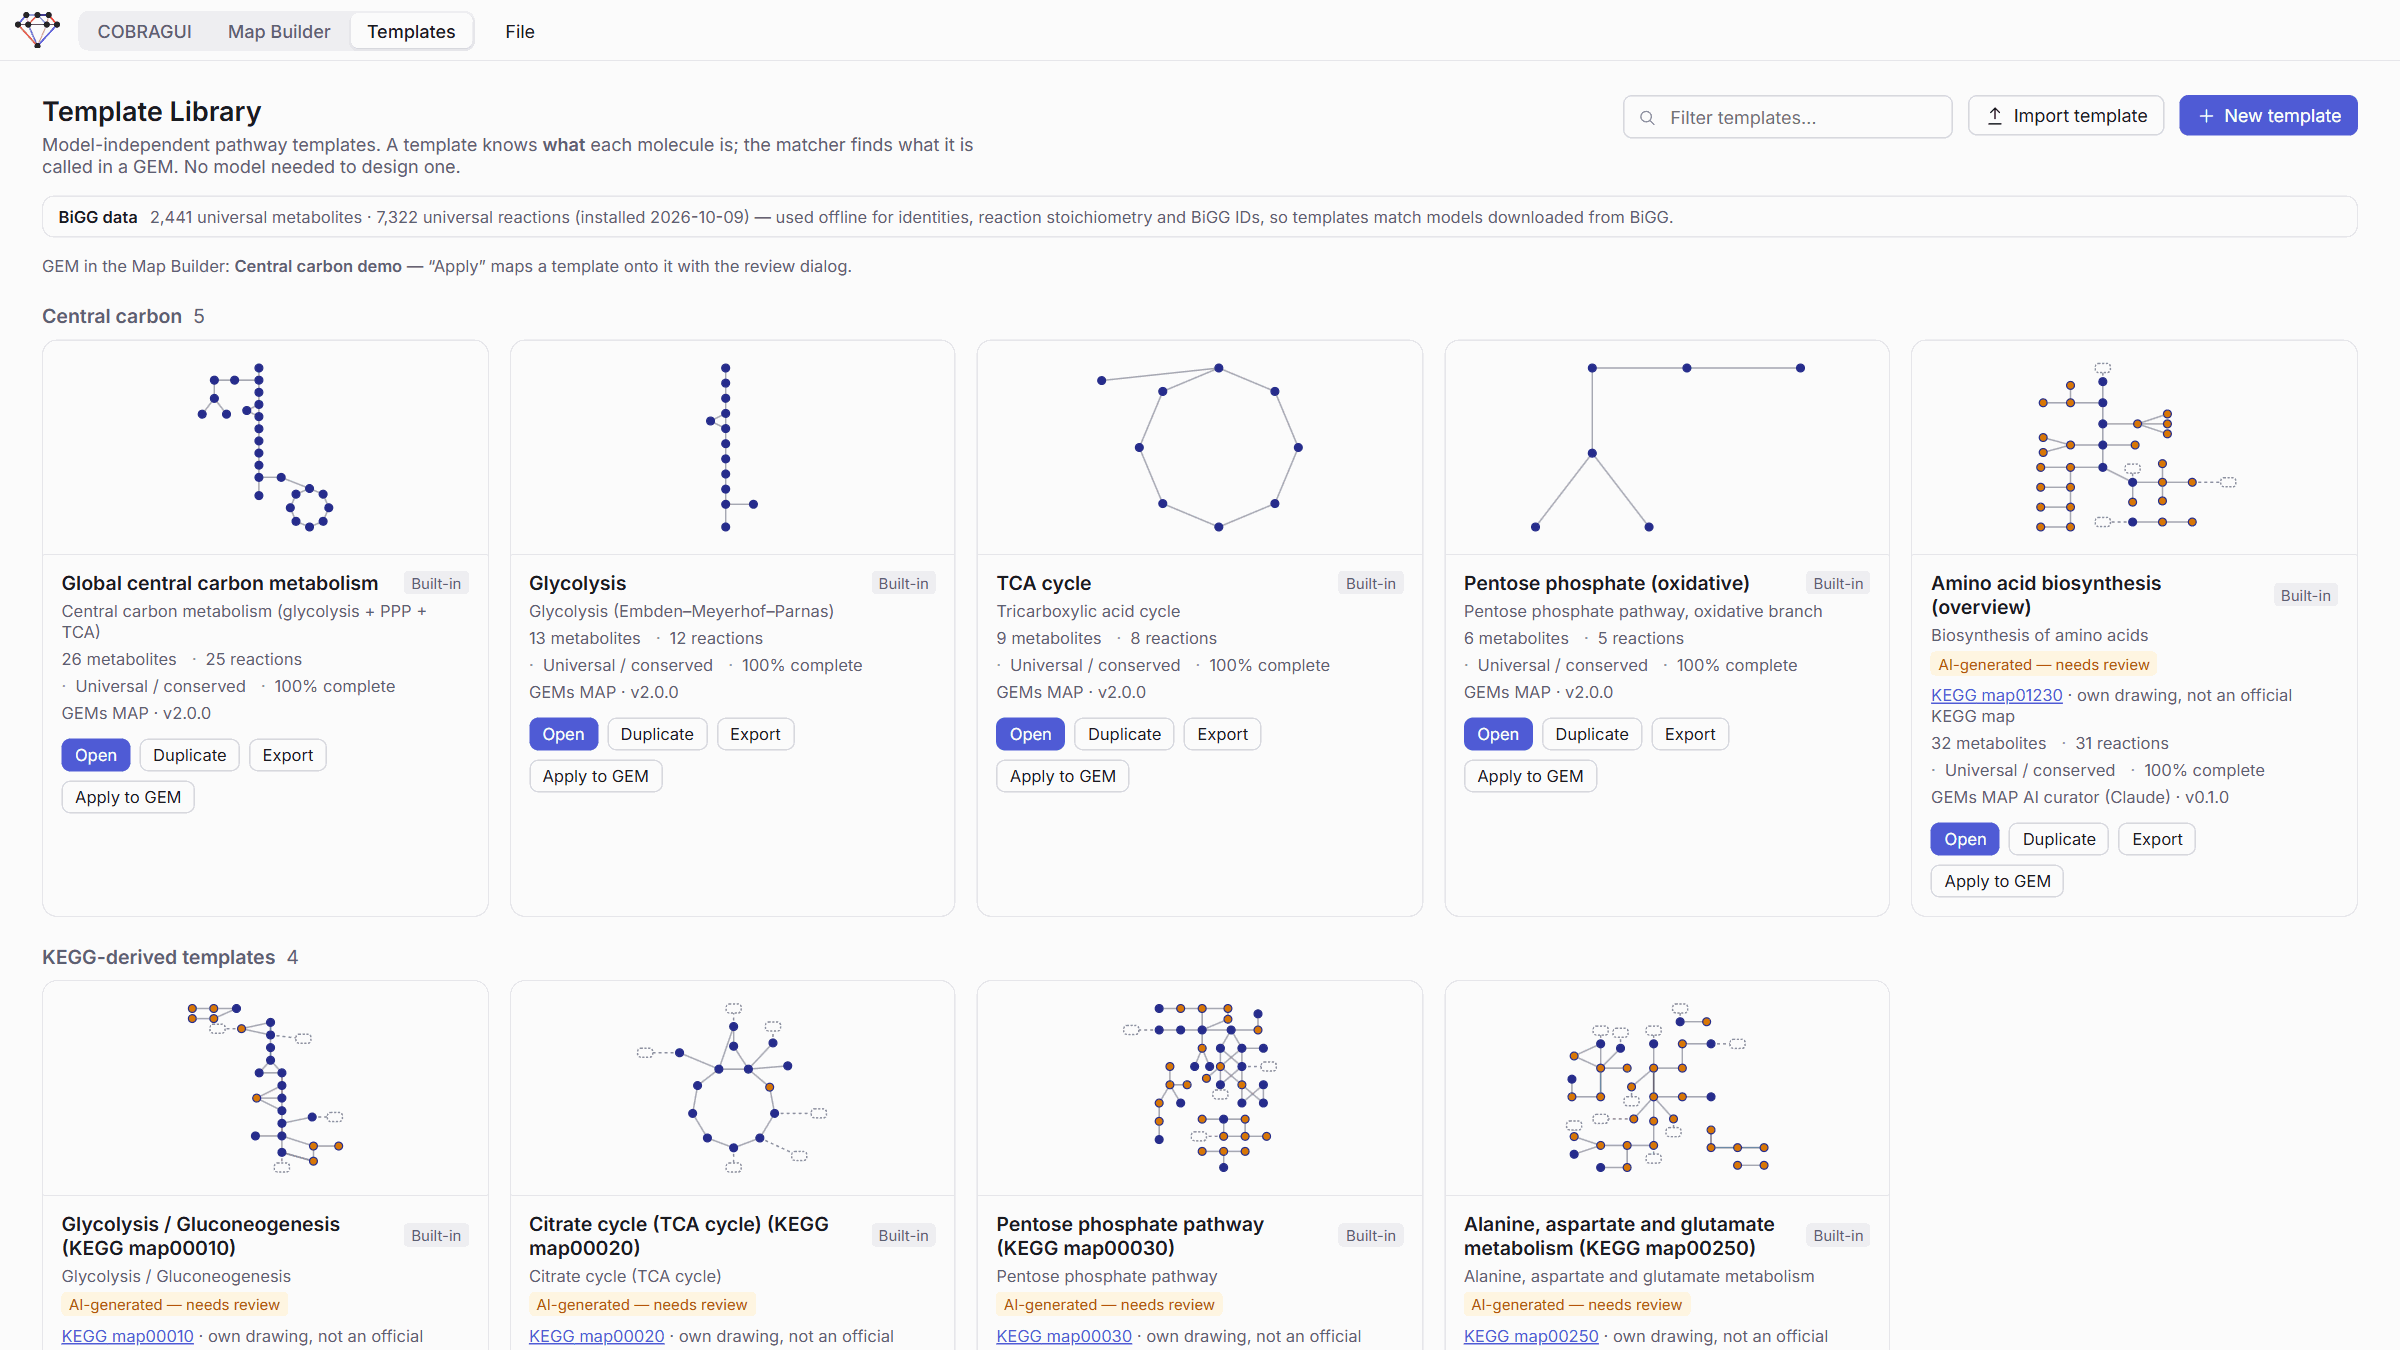
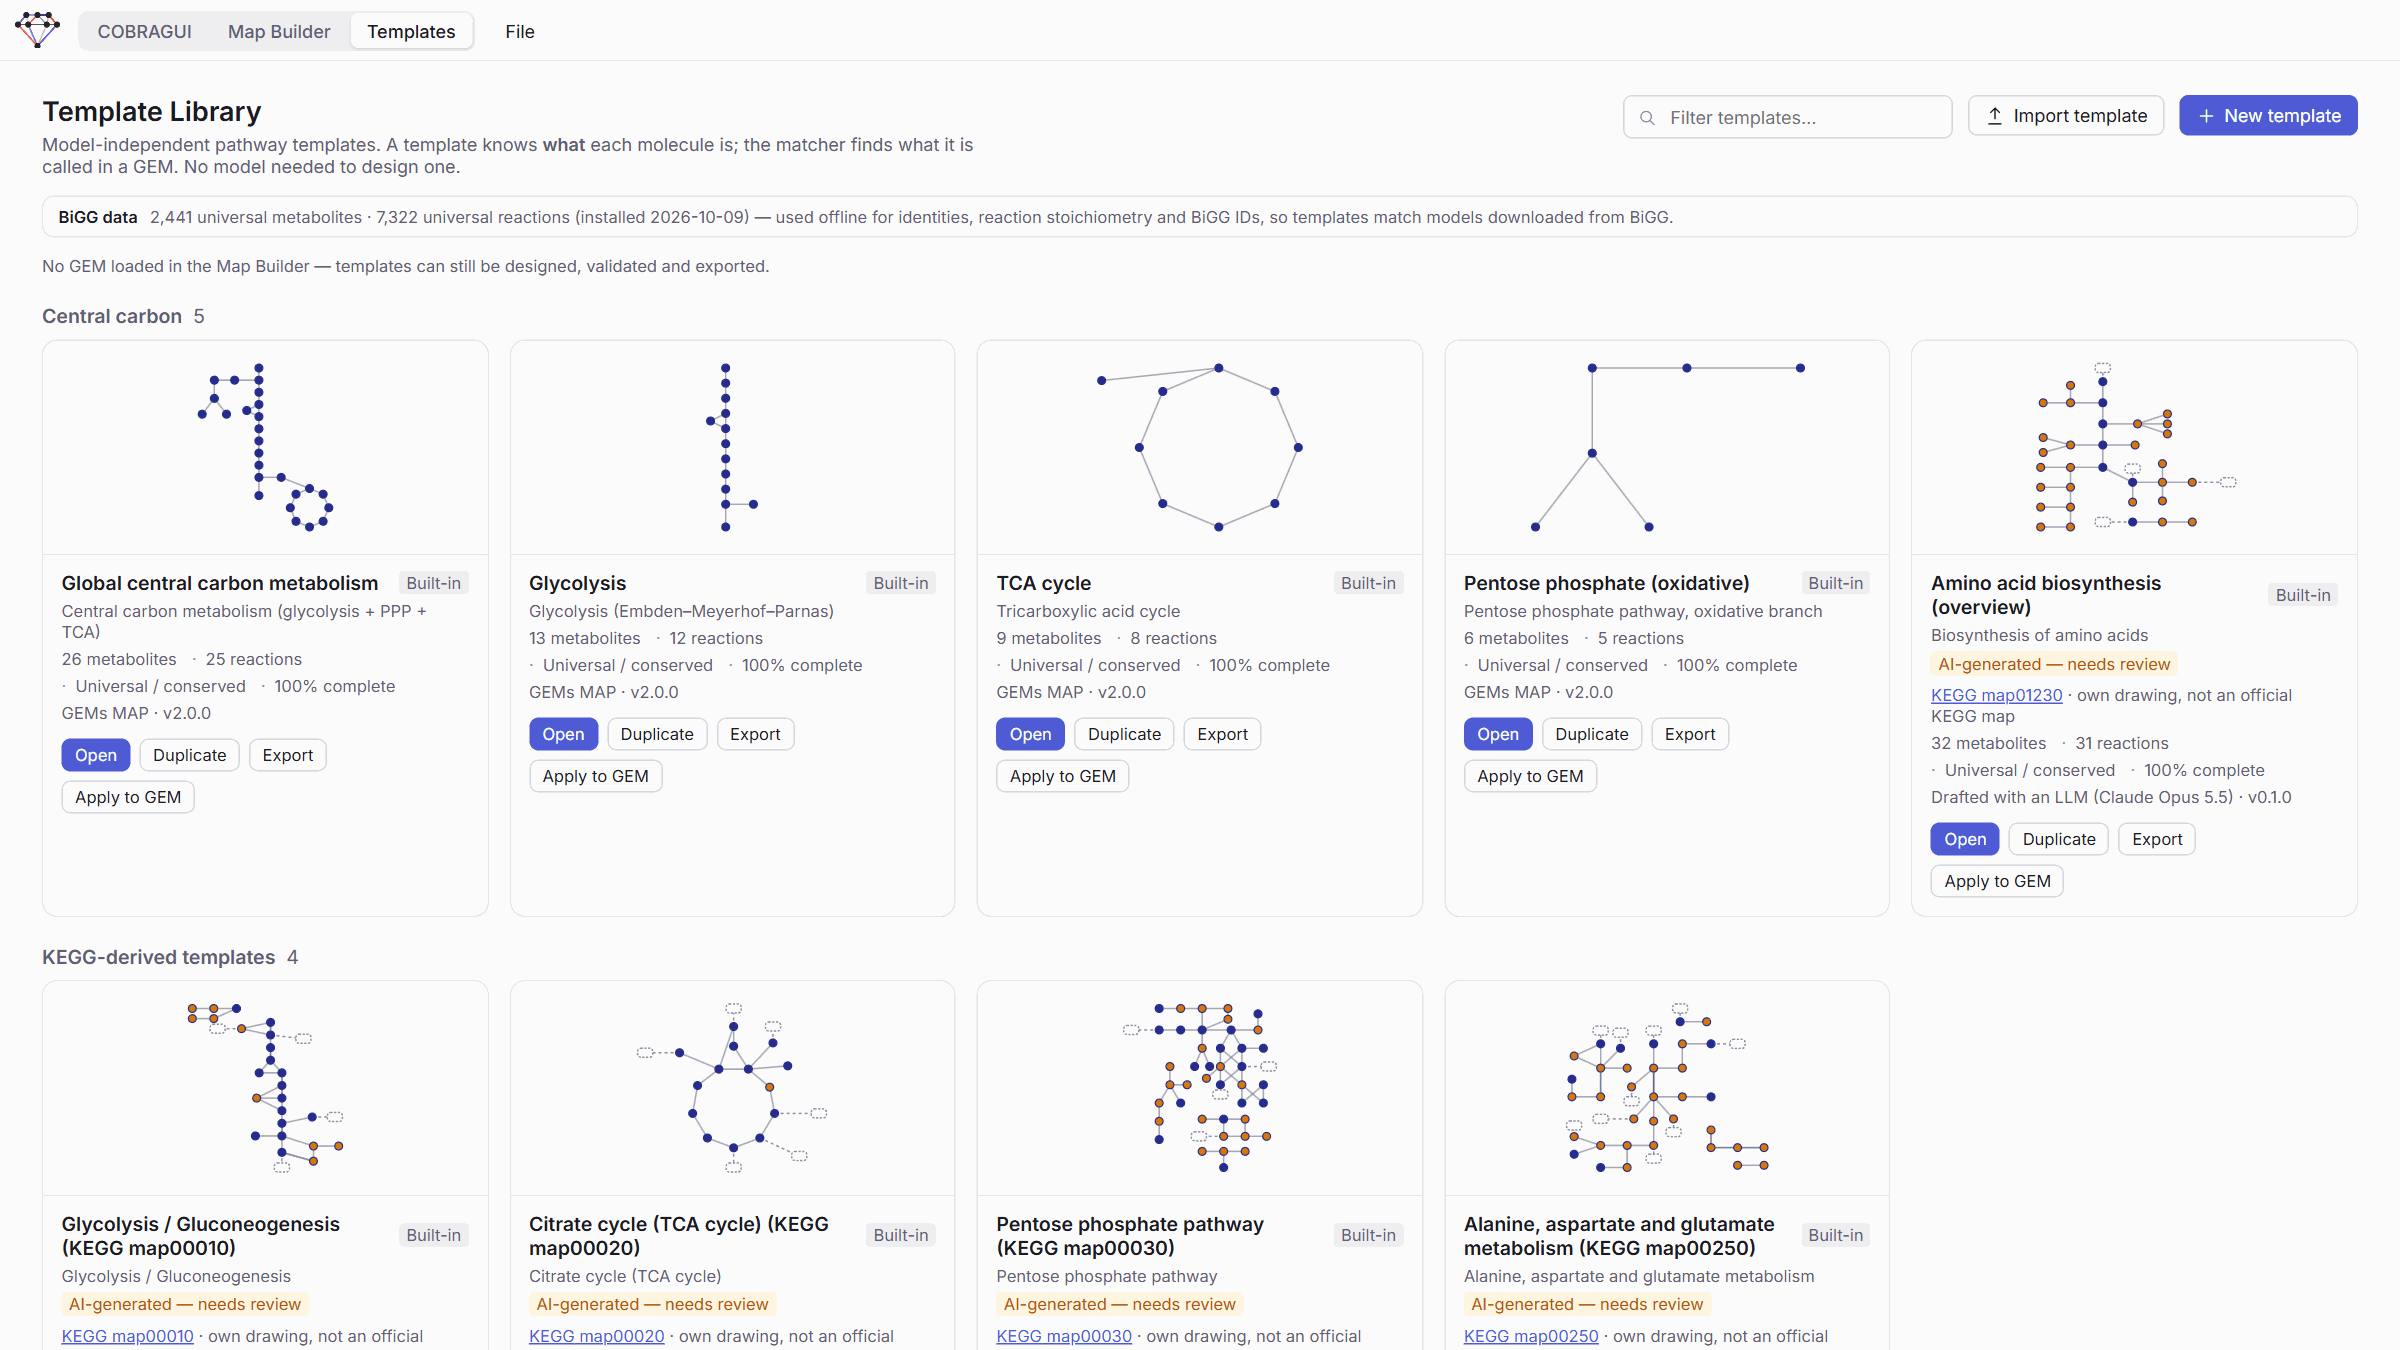
docs: audit up to 5a7f0d6 (interface size, sortable tables, compound identity)
- First look: File > Interface size (80-175 %, Ctrl Alt + / - / 0, palette),
  side panels that fit the window, and the narrow-window thresholds.
- Canvas page: the interface size shortcut in the shortcut table.
- Medium and metabolite analysis tables sort by column title.
- Metabolite analysis: the same compound in other compartments (siblings,
  "c +2", checkboxes, Apply / Keep original / Undo for all checked).
- Identity and matching: a choice for one compartment maps the same entity
  in the others ("same compound as pyr_c") and is saved in the profile.
- Template Library screenshot recaptured with the "Drafted with an LLM" author.
- Audit row in docs/CONTRIBUTING.md.

diff --git a/docs/cobra-gui/metabolite-analysis.md b/docs/cobra-gui/metabolite-analysis.md
@@ -105,7 +105,15 @@ The **Metabolite analysis** section answers a different question: *which chemica
 
 Formulas are compared on heavy atoms only, because protonation states differ between databases. A candidate whose composition conflicts with the model formula is set aside, but still listed.
 
-**What is written.** With *Apply confident matches* on, confident matches add the missing cross-references to the metabolite annotation under COBRApy/identifiers.org keys (`metanetx.chemical`, `kegg.compound`, `chebi`, `bigg.metabolite`, `seed.compound`, `metacyc.compound`, `hmdb`, `inchikey`, …). With *Fill missing formulas* on, a formula and charge are added **only where the model has none**; these MetaNetX values are at pH 7.3. For *Review* cases you decide: accept a candidate or *Keep original*. Existing values are never removed or rewritten, every accepted match can be undone, and *Revert all* restores the original annotation.
+**What is written.** With *Apply confident matches* on, confident matches add the missing cross-references to the metabolite annotation under COBRApy/identifiers.org keys (`metanetx.chemical`, `kegg.compound`, `chebi`, `bigg.metabolite`, `seed.compound`, `metacyc.compound`, `hmdb`, `inchikey`, …). With *Fill missing formulas* on, a formula and charge are added **only where the model has none**; these MetaNetX values are at pH 7.3. For *Review* cases you decide: accept a candidate or *Keep original*. Existing values are never removed or rewritten, every accepted match can be undone, and *Revert all* restores the original annotation. Click a column title to sort the table; click again to reverse, and a third time for the original order.
+
+**The same compound in other compartments.** `pyr_c`, `pyr_m` and `pyr_e` are three metabolites of the model but one chemical, so a decision about the identity of one of them is meant for all of them. GEMs MAP recognises these siblings conservatively:
+
+- the same ID once the compartment part is removed (`pyr_c`, `M_pyr_c`, `pyr[c]`, ModelSEED `cpd00020_c0`) **and** a compatible name;
+- for numbered IDs without a compartment part (yeast-GEM `s_1399`, `s_1401`), the same name without its compartment tag ("pyruvate [cytoplasm]");
+- never two siblings in one compartment: if two metabolites of one compartment look the same, no group is formed.
+
+The *Comp.* column shows siblings as `c +2` (hover for their IDs). When you select a metabolite, the panel lists *Same compound in other compartments* with a checkbox for each. *Apply*, *Keep original* and *Undo* act on the selected metabolite and every checked sibling, and the buttons show how many, for example *Apply MNXM23 (+2)*. A sibling whose own identifiers point to another chemical, or that is already curated as another one, starts unchecked and shows why (⚠).
 
 **Where it goes.** Accepted matches form a **curation layer** stored next to the model in the backend cache and re-applied whenever the model is loaded. *Export curated model* (or *Save as model*) writes them into a new file, as SBML MIRIAM annotations, with a provenance note. The imported file is unchanged. MetaNetX answers are cached locally for 90 days, so only the first analysis of a model needs the internet. For iML1515 the first analysis took about 35 seconds while preparing these pages; repeating it took about 3 seconds.
 

diff --git a/docs/getting-started/first-look.md b/docs/getting-started/first-look.md
@@ -49,6 +49,21 @@ The third workspace lists the pathway templates and opens them in Template Desig
 
 Continue with [Templates](../templates/index.md).
 
+## Fit the interface to your screen
+
+- **File → Interface size** makes panels, menus, tables, dialogs and text smaller or larger, from 80 % to 175 %, in every workspace. ++ctrl+alt+plus++ and ++ctrl+alt+minus++ do the same, ++ctrl+alt+0++ returns to 100 %, and the command palette has *Interface size: larger*, *smaller* and *100 %*. The choice is remembered per browser. The map, its figures and its exports do not change.
+- **Side panels** open at their usual width, but never wider than about a fifth of the window. Drag a panel's edge to make it wider (up to 40 % of the window); a double-click on the edge resets it.
+- **In a narrow window** the side panels hide themselves to leave room for the work, and come back when the window is wider. A one-time notice says how to reopen them: the panel buttons in the top bar always work. A panel you open or close yourself stays that way.
+
+| Panel | Hidden when the window is narrower than |
+| --- | --- |
+| Map Builder and Template Builder inspector | 1,000 px |
+| Map Builder and Template Builder left panel | 760 px |
+| COBRAGUI inspector (it reopens when you open an entity) | 1,150 px |
+| COBRAGUI sidebar (shows icons only) | 1,100 px |
+
+These widths are at 100 %; a larger interface size hides the panels sooner, a smaller one later. On a small laptop, a smaller interface size keeps the panels open; on a large monitor, a larger one makes everything easier to read.
+
 ## Getting help inside the app
 
 - ++ctrl+k++ opens the command palette in every workspace: search the model, the figure or the commands.

diff --git a/docs/cobra-gui/constraints.md b/docs/cobra-gui/constraints.md
@@ -24,7 +24,7 @@ A *model state* is a set of changes on top of the imported model: reaction bound
 
 ## Medium
 
-The medium is the set of **uptake limits of exchange reactions**, read and written through COBRApy's `model.medium`. The table lists each compound with its exchange reaction, maximum uptake, maximum secretion and the value in the model file (highlighted when changed). Untick a compound to forbid its uptake; edit *Max uptake* to change the limit. Values are in mmol gDW⁻¹ h⁻¹ and must be ≥ 0.
+The medium is the set of **uptake limits of exchange reactions**, read and written through COBRApy's `model.medium`. The table lists each compound with its exchange reaction, maximum uptake, maximum secretion and the value in the model file (highlighted when changed). Untick a compound to forbid its uptake; edit *Max uptake* to change the limit. Values are in mmol gDW⁻¹ h⁻¹ and must be ≥ 0. Click a column title to sort the table (numbers from high to low, text from A to Z), again to reverse the order, and a third time to restore the original order.
 
 !!! info "Sign convention"
     In COBRApy an exchange reaction is written `X <=>`, so a **negative** flux imports X. Uptake limits are therefore stored as negative lower bounds. GEMs MAP shows uptake and secretion as positive amounts and leaves the sign convention to COBRApy, so it is never re-derived in the interface. Medium edits are stored in the model state as ordinary bound changes.

diff --git a/docs/templates/identity-and-matching.md b/docs/templates/identity-and-matching.md
@@ -87,6 +87,14 @@ Your decisions are stored as `entity @ compartment → model metabolite` (or *ab
 - saved in the browser and inside `.gemsmap` projects;
 - reported as stale for an entry whose metabolite no longer exists after a model change.
 
+### The same entity in other compartments
+
+A template can draw one entity in several compartments, for example pyruvate in the cytosol and in the mitochondrion. When you choose a model metabolite for one of these slots, in the review dialog or in the inspector, GEMs MAP also maps the other compartments to the [same compound](../cobra-gui/metabolite-analysis.md#curating-identifiers-with-metanetx) in the model: choosing `pyr_c` maps the mitochondrial slot to `pyr_m`. Such slots are confirmed with the method *same compound as pyr_c*.
+
+- A slot you chose yourself, or one mapped with high confidence, is never changed this way.
+- In the review dialog, changing or clearing a choice also undoes the slots that followed it.
+- The siblings are saved in the mapping profile too, so another template that draws pyruvate in the mitochondrion of the same model finds `pyr_m` already confirmed.
+
 *Export report* in the review dialog writes every mapping with its evidence, method and software versions as JSON, for the methods section of a paper.
 
 <div class="gm-next" markdown>

diff --git a/docs/CONTRIBUTING.md b/docs/CONTRIBUTING.md
@@ -113,6 +113,7 @@ When the tutorial text quotes a number (growth rates, counts, fluxes), take it f
 | Last audit | Commit | Notes |
 | --- | --- | --- |
 | 13 Oct 2026 | `v0.3.0b1` | First public version. The site was written and audited on the earlier, local development history (10 to 13 October 2026: first version, COBRAGUI rename, redrawn brand, clean start-up, the C / V / mouse-wheel habit) and describes version 0.3.0b1, including the installation with pip, uv or the zip. |
+| 22 Oct 2026 | `5a7f0d6` | Interface size, side panels that fit the window and narrow-window rules (*First look*); sorting the Medium and metabolite analysis tables by column; one identity for a compound in every compartment (*Metabolite analysis*, *Identity and matching*); templates drafted with an LLM instead of an "AI curator" (pages updated with that commit; `templates-library.png` recaptured). The step-by-step pip install (`7f88baa`) and the Read the Docs links were already in place. |
 
 When revisiting the docs:
 

diff --git a/docs/maps/canvas-and-side-panel.md b/docs/maps/canvas-and-side-panel.md
@@ -121,6 +121,7 @@ Press ++question++ in the Map Builder for the list.
 | ++f++ / ++shift+f++ | Fit all / fit selection |
 | ++bracket-left++ / ++bracket-right++ | Previous / next condition |
 | ++ctrl+s++ / ++ctrl+o++ / ++ctrl+e++ | Save project / open project / export figure |
+| ++ctrl+alt+plus++ / ++ctrl+alt+minus++ / ++ctrl+alt+0++ | [Interface size](../getting-started/first-look.md#fit-the-interface-to-your-screen): larger / smaller / 100 % (every workspace) |
 | Double-click canvas | Add a metabolite |
 | Drag a node's outer ring | Draw a reaction (drop on empty canvas: new slot) |
 | Double-click a label | Edit the text |
